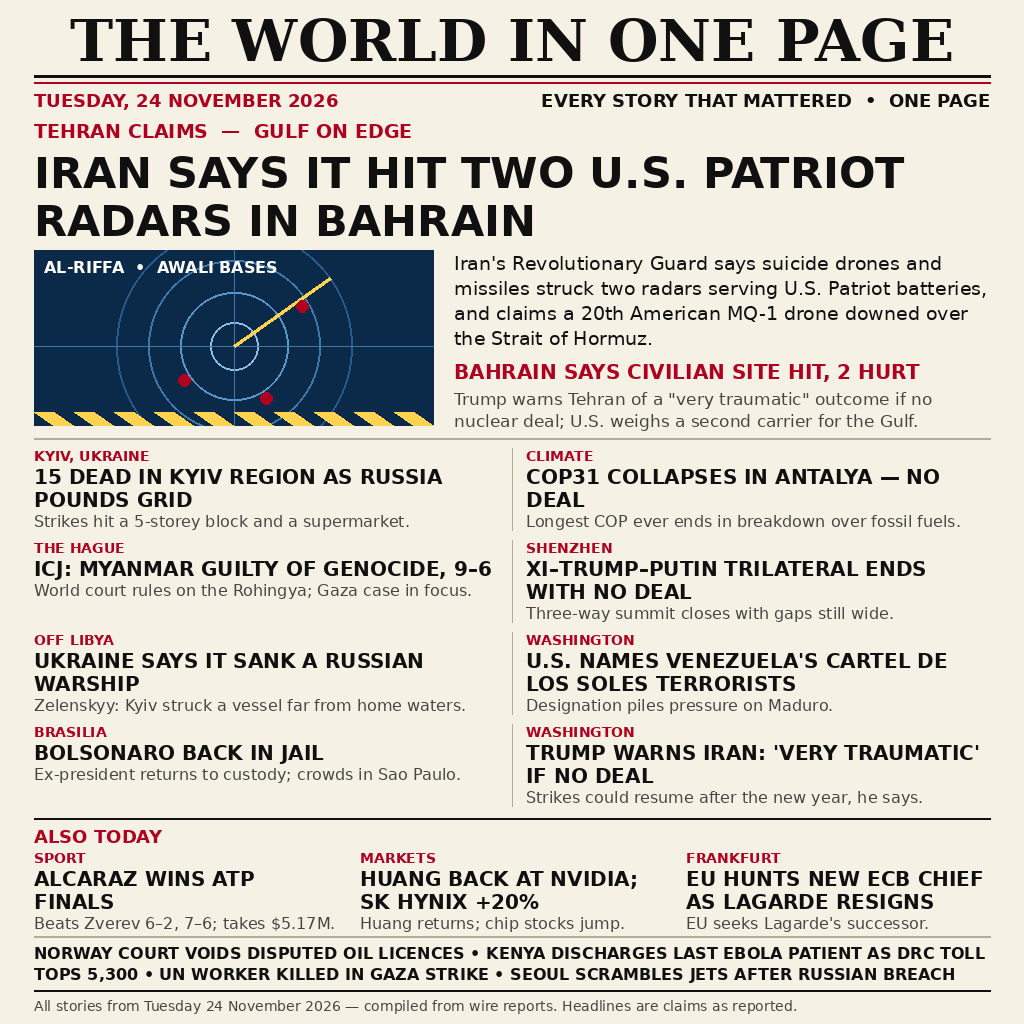
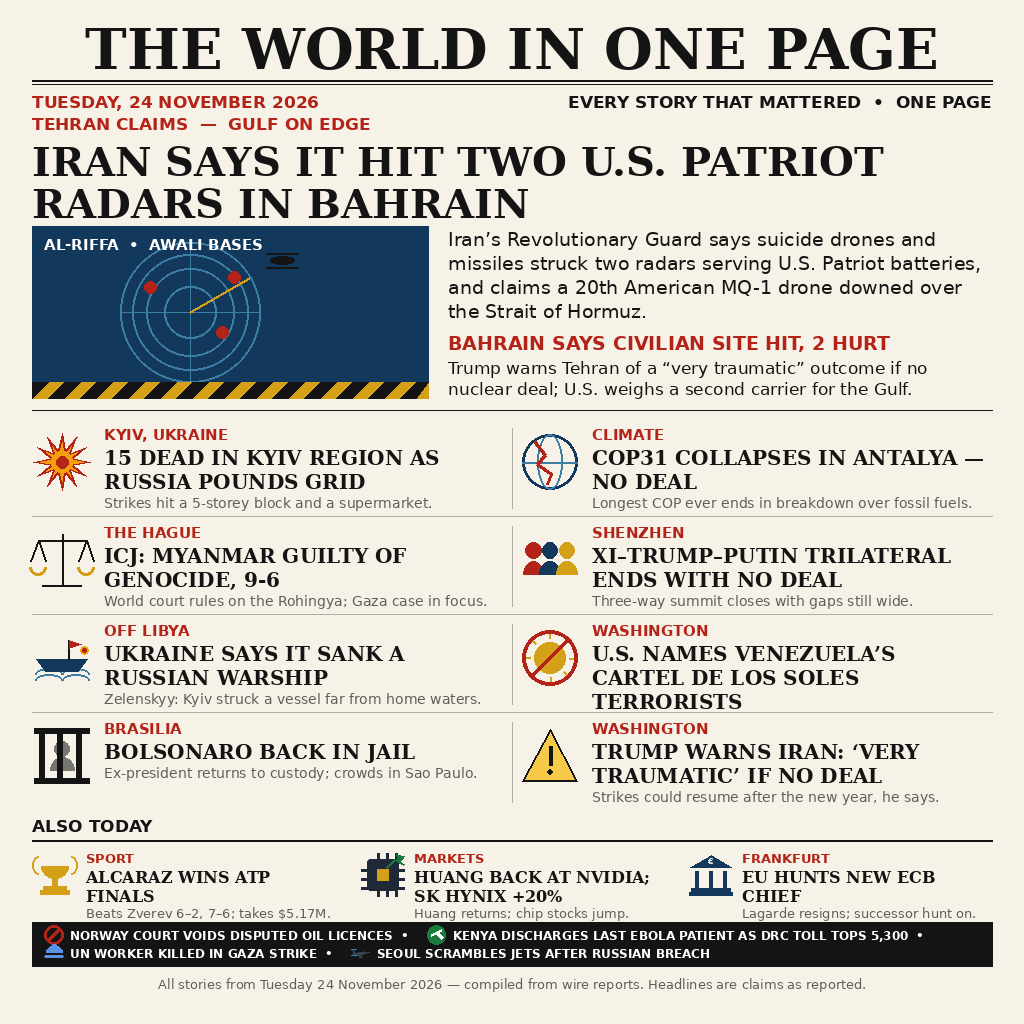
Illustrate every story: PIL pictograms for all 16 items
- Lead keeps the radar-sweep panel (rings, blips, drone, hazard stripe)
- Grid: blast (Kyiv), globe+crack (COP31), scales (ICJ), trio (trilateral),
  warship (Libya), sun-ban (Cartel de los Soles), jail bars (Bolsonaro),
  warning triangle (Trump warns Iran)
- Also Today: trophy (Alcaraz), chip+arrow (Nvidia), bank (ECB)
- Ticker: oil-ban, med-check, UN helmet, jet (20px versions)
- main.py rewritten fresh; determinism verified (2 runs, identical sha256)

Changed region(s): [[0.0312, 0.0, 0.9688, 1.0]]

diff --git a/main.py b/main.py
@@ -5,20 +5,21 @@ from pathlib import Path
 
 
 def publish():
-    target = os.environ.get("MAKEFUN_OUTPUT_DIR")
-    if not target:
-        print("error: MAKEFUN_OUTPUT_DIR is not set", file=sys.stderr)
+    source = Path(__file__).resolve().parent / "entry.png"
+    dest_dir = os.environ.get("MAKEFUN_OUTPUT_DIR")
+    if not dest_dir:
+        print("MAKEFUN_OUTPUT_DIR is not set", file=sys.stderr)
         return 2
-    folder = Path(__file__).resolve().parent
-    picture = folder / "entry.png"
-    if not picture.is_file():
-        print(f"error: {picture} is missing", file=sys.stderr)
+    if not source.is_file():
+        print("entry.png is missing next to main.py", file=sys.stderr)
         return 2
-    out_folder = Path(target)
-    out_folder.mkdir(parents=True, exist_ok=True)
-    out_file = out_folder / "entry.png"
-    shutil.copyfile(picture, out_file)
-    print(out_file)
+    out_dir = Path(dest_dir)
+    try:
+        out_dir.mkdir(parents=True, exist_ok=True)
+        shutil.copyfile(source, out_dir / "entry.png")
+    except OSError as problem:
+        print(f"could not write entry.png: {problem}", file=sys.stderr)
+        return 2
     return 0
 
 
